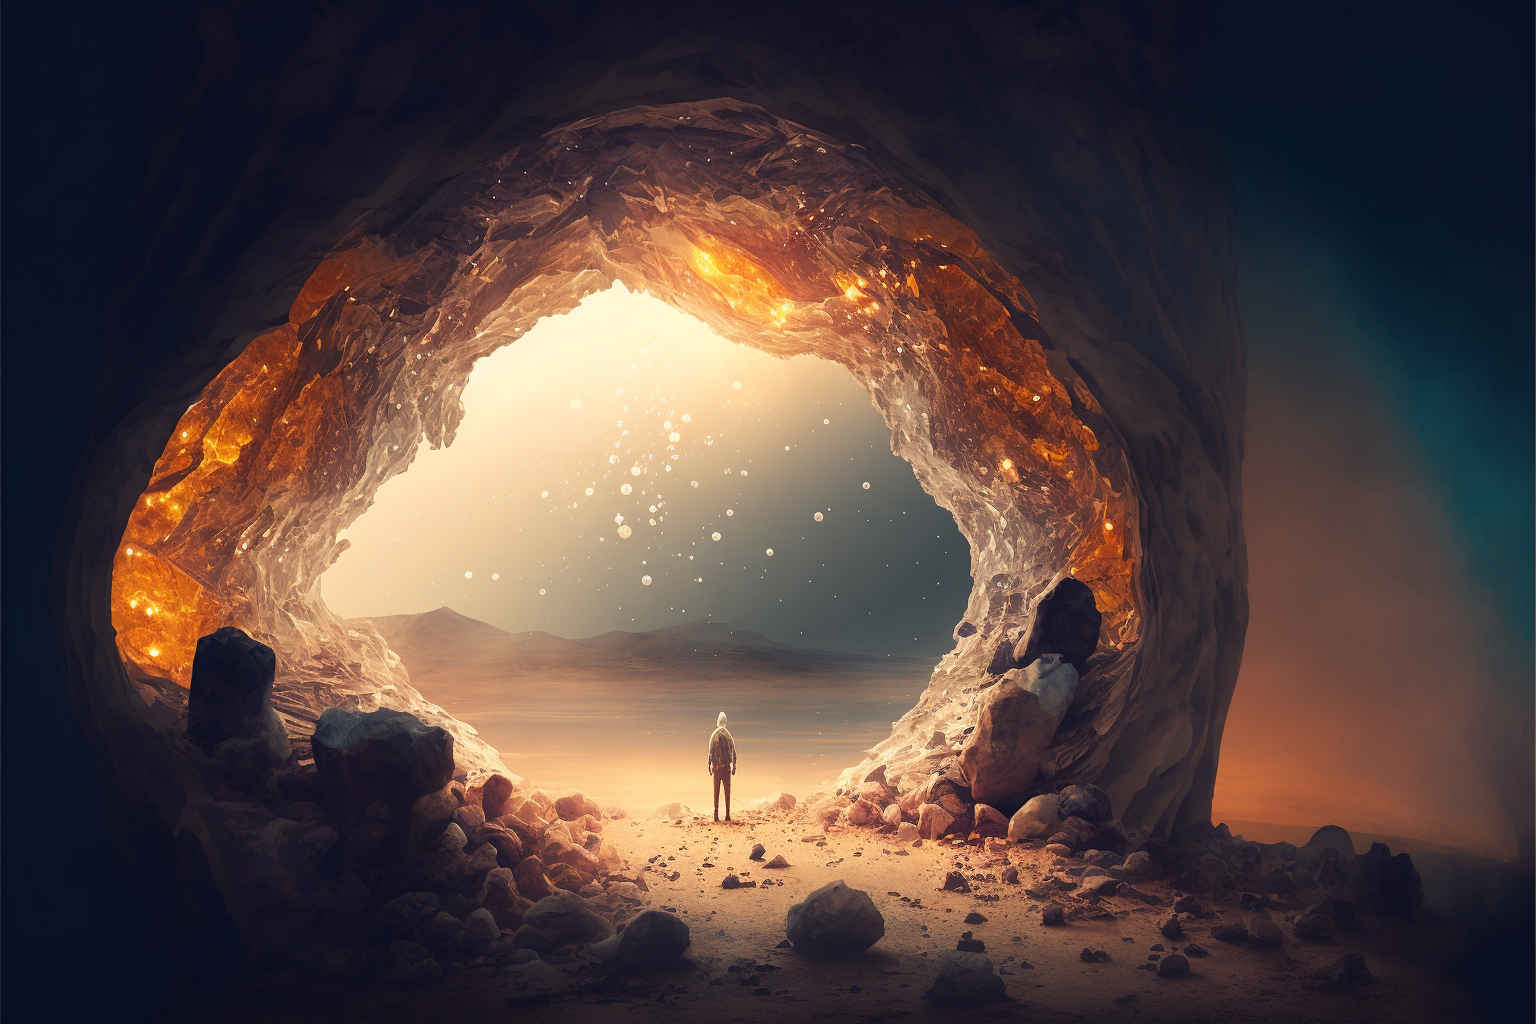
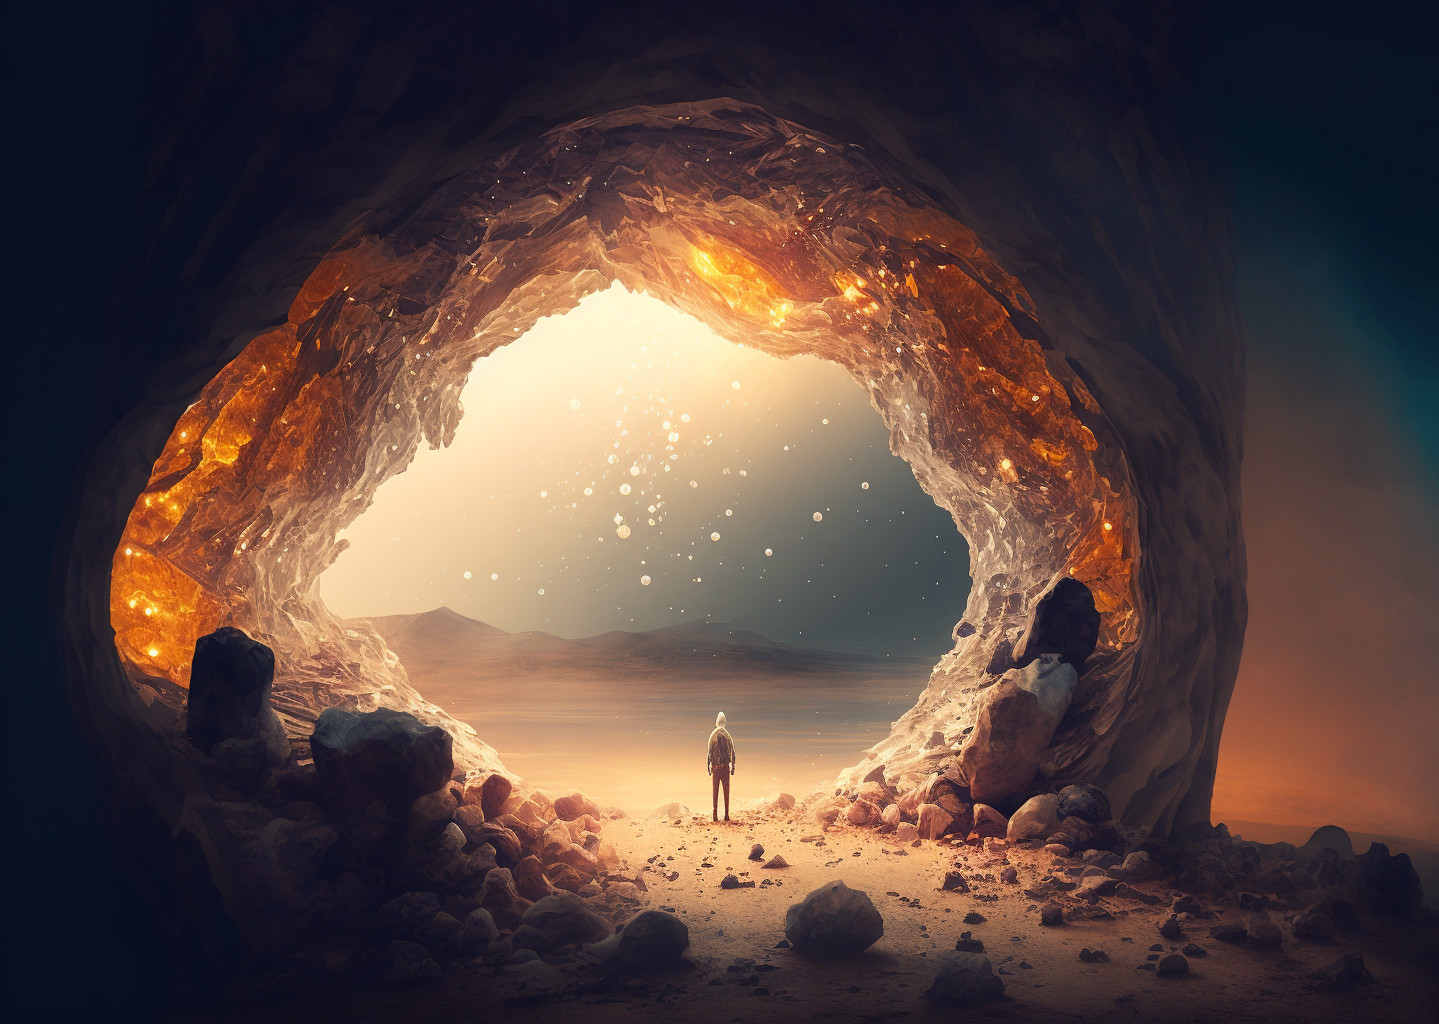
Improving design of the cave + center the cave

Changed region(s): [[0.0612, 0.0938, 1.0, 1.0], [0.3669, 0.5938, 0.4587, 0.6875], [0.9479, 0.9375, 0.9785, 0.9688]]

diff --git a/public/wallpapers/index.tsx b/public/wallpapers/index.tsx
@@ -55,8 +55,7 @@ export function CaveOfIdeasWithTransparentLookThroughImage2() {
             style={{
                 backgroundImage: `url(${cave_of_ideas_with_transparent_look_through2.src})` /* <- TODO: url(...) vs url('...') */,
                 backgroundSize: 'cover',
-                backgroundPosition:
-                    '45.5% 80%' /* <- Note: This centeres man in the image of the cave !!! Do it in the image */,
+                backgroundPosition: '50% 80%',
                 backgroundColor: '#ccc' /* <- TODO: Create from image / project color */,
                 // aspectRatio: '3/2',
             }}

diff --git a/pages/index.module.css b/pages/index.module.css
@@ -4,7 +4,7 @@
     display: grid;
 
     grid-template-columns: 20vw 1fr 3fr 1fr 20vw;
-    grid-template-rows: 70vh 10vh 10vh auto minmax(17vh, 75px);
+    grid-template-rows: 40vh 10vh 10vh auto minmax(17vh, 75px);
 
     align-items: stretch;
     justify-items: stretch;
